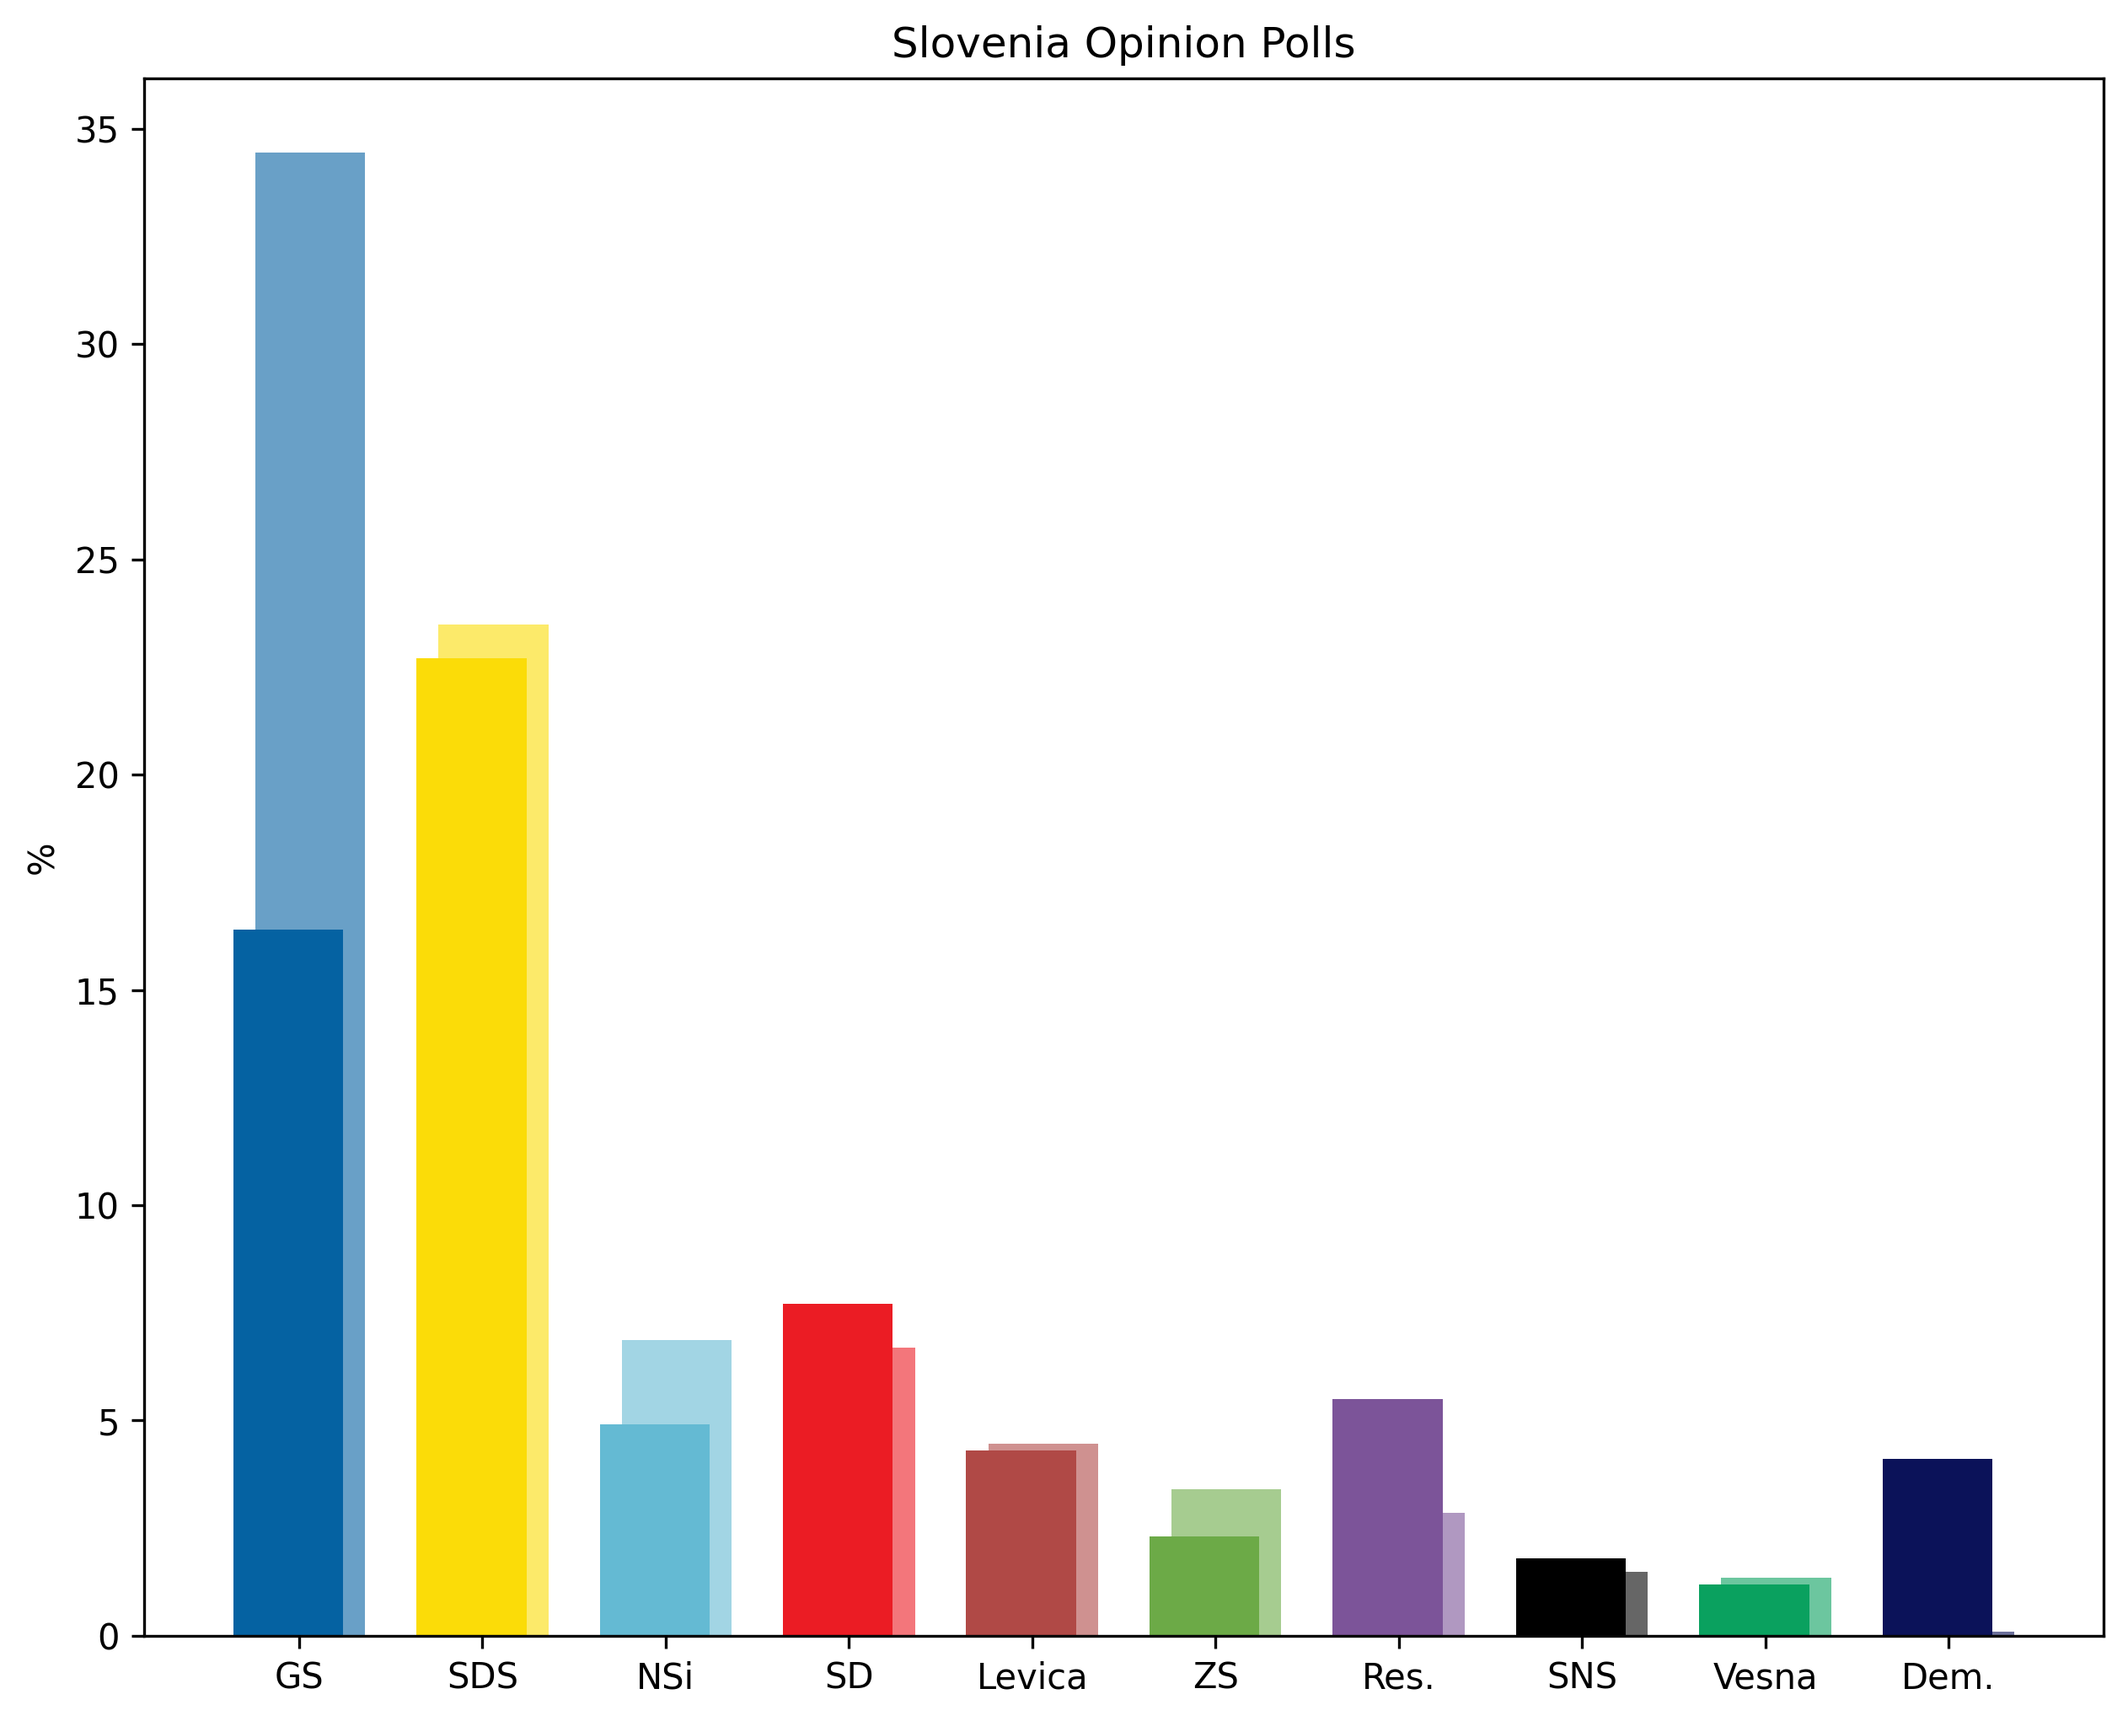
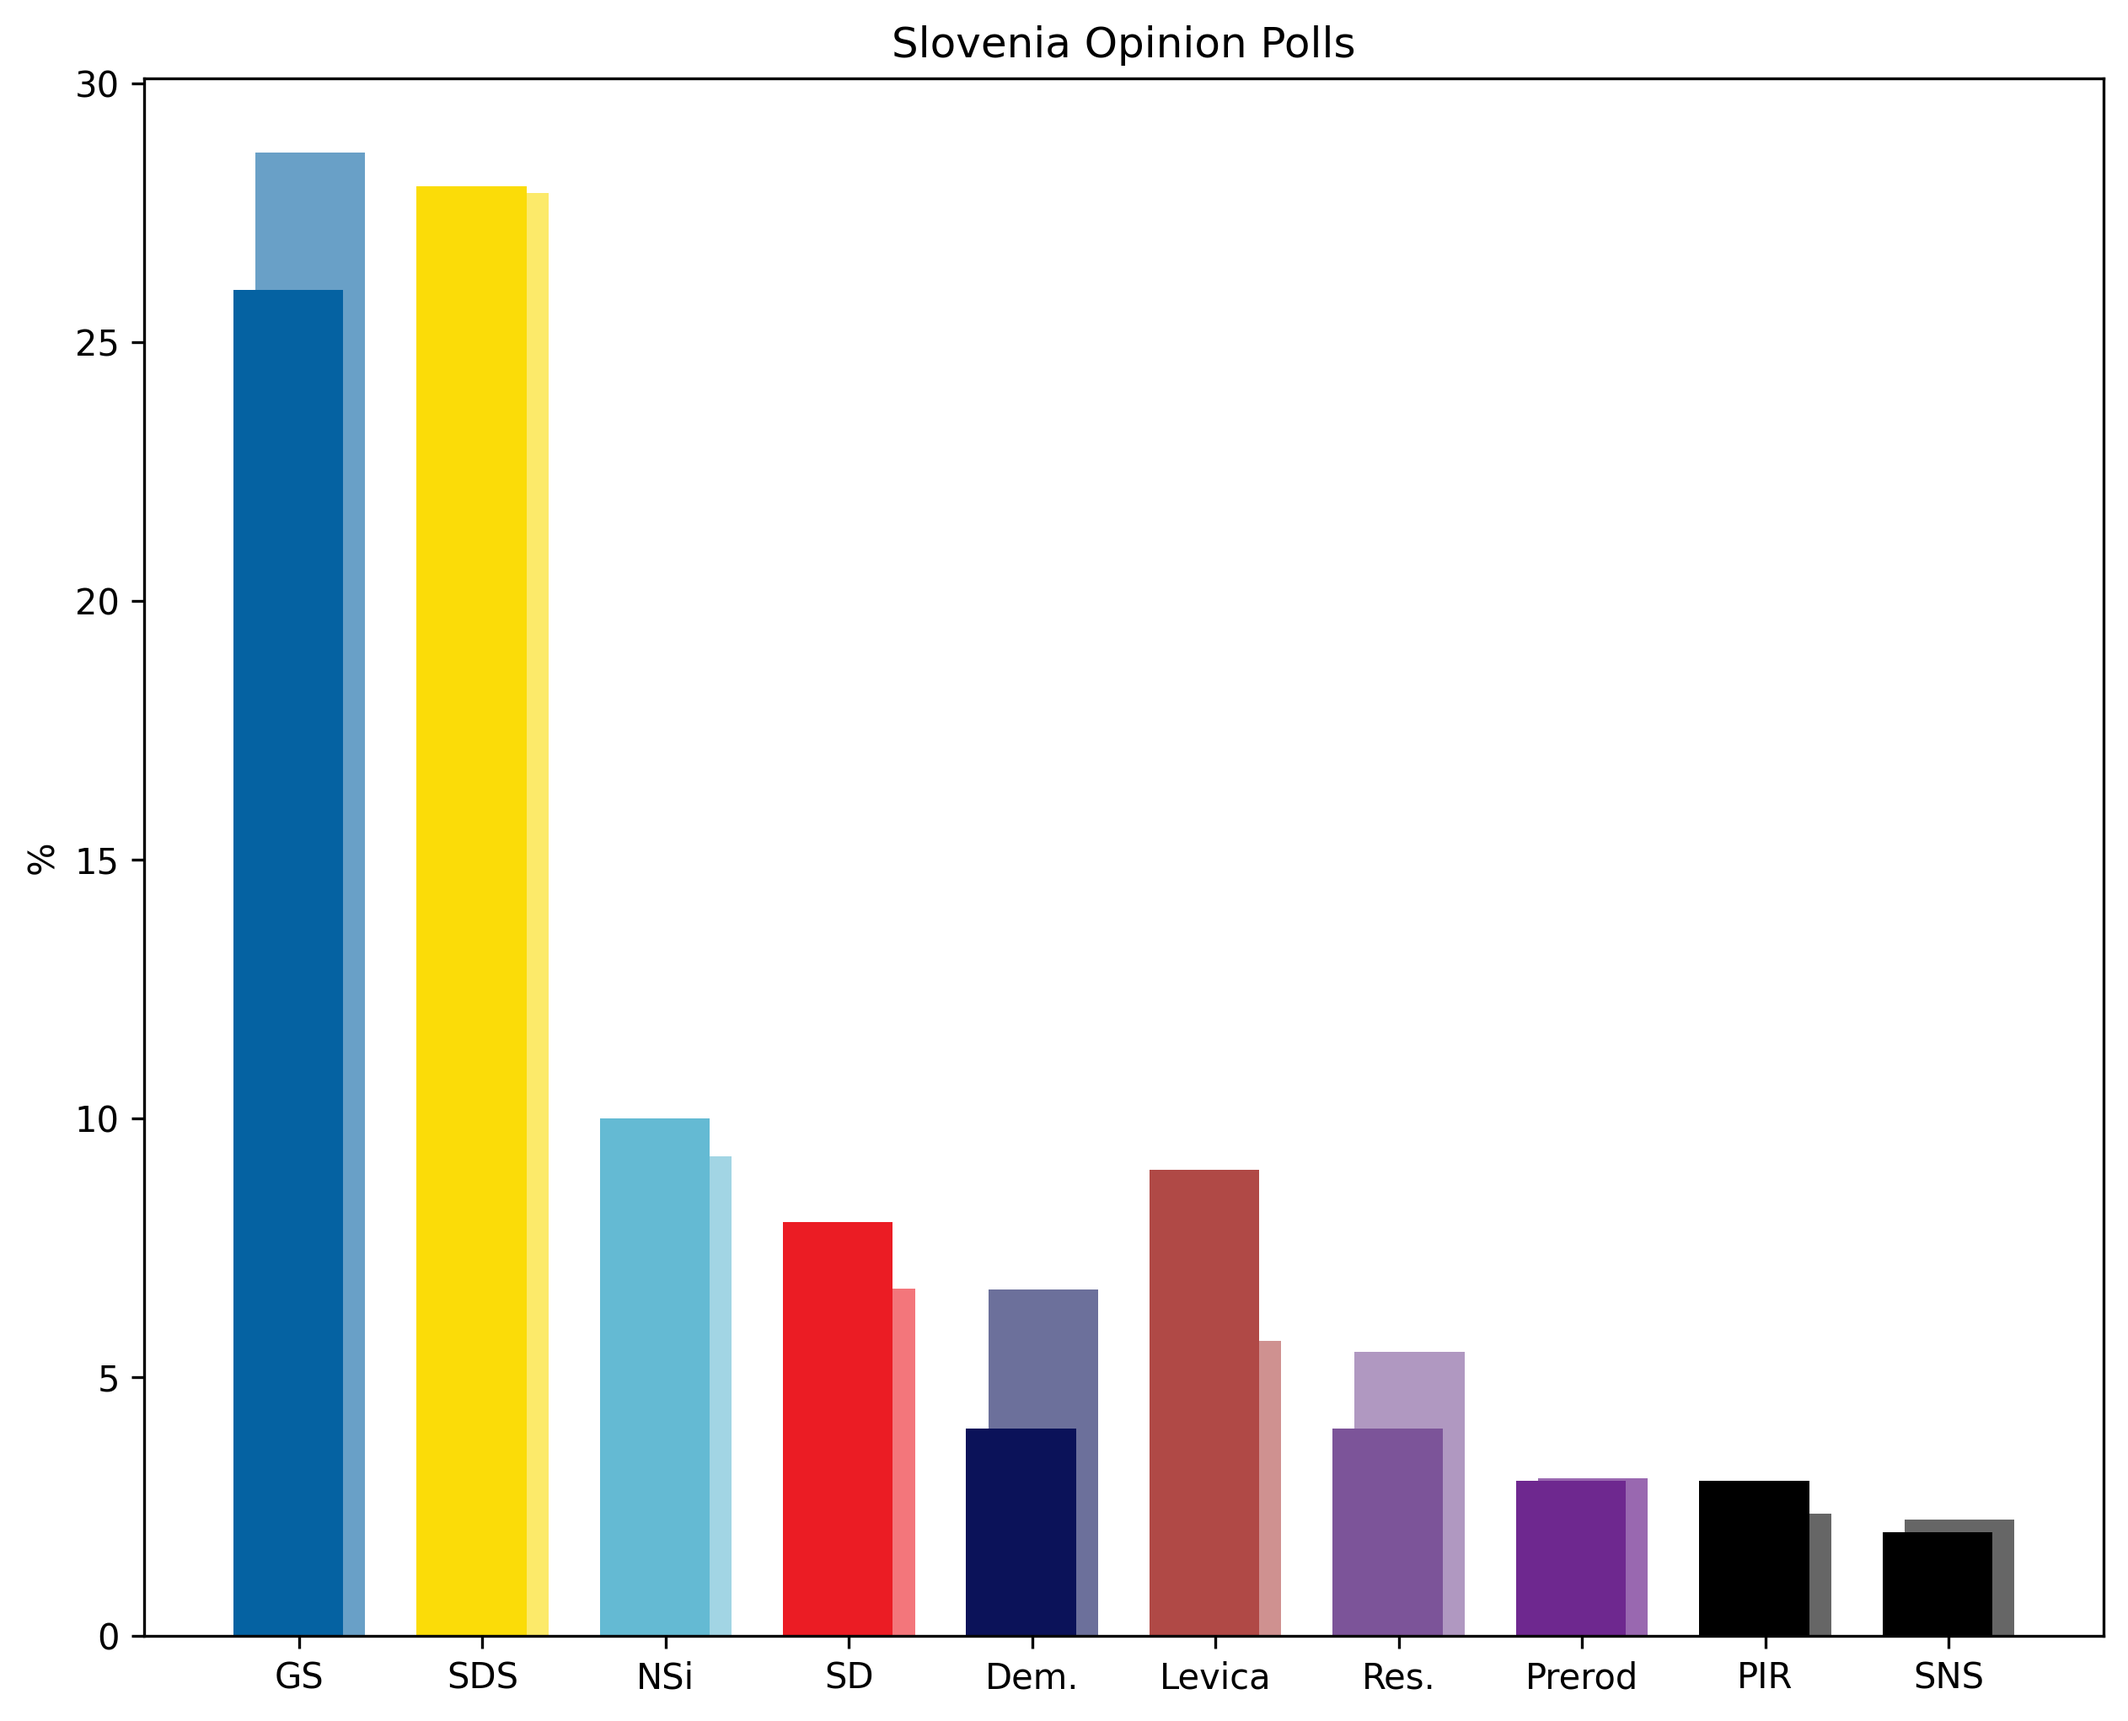
Updated Slovenia and Hungary

diff --git a/Europe/SouthEurope/Slovenia.py b/Europe/SouthEurope/Slovenia.py
@@ -1,19 +1,19 @@
 import matplotlib.pyplot as plt
 import numpy as np
 
-parties = ['GS', 'SDS', 'NSi', 'SD', 'Levica', 'ZS', 'Res.', 'SNS', 'Vesna', 'Dem.']
-polling_2025 = [16.4, 22.7, 4.9, 7.7, 4.3, 2.3, 5.5, 1.8, 1.2, 4.1]
-election_2022 = [34.45, 23.48, 6.86, 6.69, 4.46, 3.41, 2.86, 1.49, 1.35, 0.10]
+parties = ['GS', 'SDS', 'NSi', 'SD', 'Dem.', 'Levica', 'Res.', 'Prerod', 'PIR', 'SNS']
+polling_2026 = [26.0, 28.0, 10.0, 8.0, 4.0, 9.0, 4.0, 3.0, 3.0, 2.0]
+election_2026 = [28.66, 27.88, 9.26, 6.71, 6.69, 5.69, 5.49, 3.05, 2.36, 2.24]
 
-poll_colors = ['#0562a2', '#fbdc08', '#64bad3', '#eb1c24', '#b04946', '#6caa47', '#7c5499', '#000000', '#0aa15f' , '#0b1259']
-election_colors = ['#69a0c7', '#fcea6a', '#a2d5e4', '#f3767b', '#cf9190', '#a6cc90', '#b098c1', '#666666', '#6cc69f', '#6c709b']
+poll_colors = ['#0562a2', '#fbdc08', '#64bad3', '#eb1c24', '#0b1259', '#b04946', '#7c5499', '#6e288f', '#000000', '#000000']
+election_colors = ['#69a0c7', '#fcea6a', '#a2d5e4', '#f3767b', '#6c709b', '#cf9190', '#b098c1', '#9968b0', '#666666', '#666666']
 
 x = np.arange(len(parties))
 width = 0.6
 
 fig, ax = plt.subplots(figsize=(10, 8))
-ax.bar(x + width/10, election_2022, width=width, color=election_colors, label='2022 Election')
-ax.bar(x - width/10, polling_2025, width=width, color=poll_colors, label='August 2025 Polling')
+ax.bar(x + width/10, election_2026, width=width, color=election_colors, label='2026 Election')
+ax.bar(x - width/10, polling_2026, width=width, color=poll_colors, label='September 2026 Polling')
 
 ax.set_ylabel('%')
 ax.set_xticks(x)

diff --git a/Europe/CentralEurope/Hungary.py b/Europe/CentralEurope/Hungary.py
@@ -1,12 +1,12 @@
 import matplotlib.pyplot as plt
 import numpy as np
 
-parties = ['Fidesz-KDNP', 'DK', 'MH', 'MKKP', 'TISZA']
-polling_2025 = [43.0, 4.3, 4.7, 3.5, 42.0]
-election_2022 = [54.13, 34.44, 5.88, 3.27, 0.10]
+parties = ['TISZA', 'Fidesz-KDNP', 'MH', 'DK', 'MKKP']
+polling_2025 = [68.0, 22.0, 7.0, 1.0, 1.0]
+election_2022 = [55.26, 36.72, 5.72, 1.08, 0.65]
 
-poll_colors = ['#f17425', '#0f6bb1', '#6a8b1e', '#d7d5d5', '#ea4654']
-election_colors = ['#f6ab7c', '#6fa6d0', '#a5b978', '#e7e5e5', '#f29098']
+poll_colors = ['#ea4654', '#f17425', '#6a8b1e', '#0f6bb1', '#d7d5d5']
+election_colors = ['#f29098', '#f6ab7c', '#a5b978', '#6fa6d0', '#e7e5e5']
 
 x = np.arange(len(parties))
 width = 0.6
